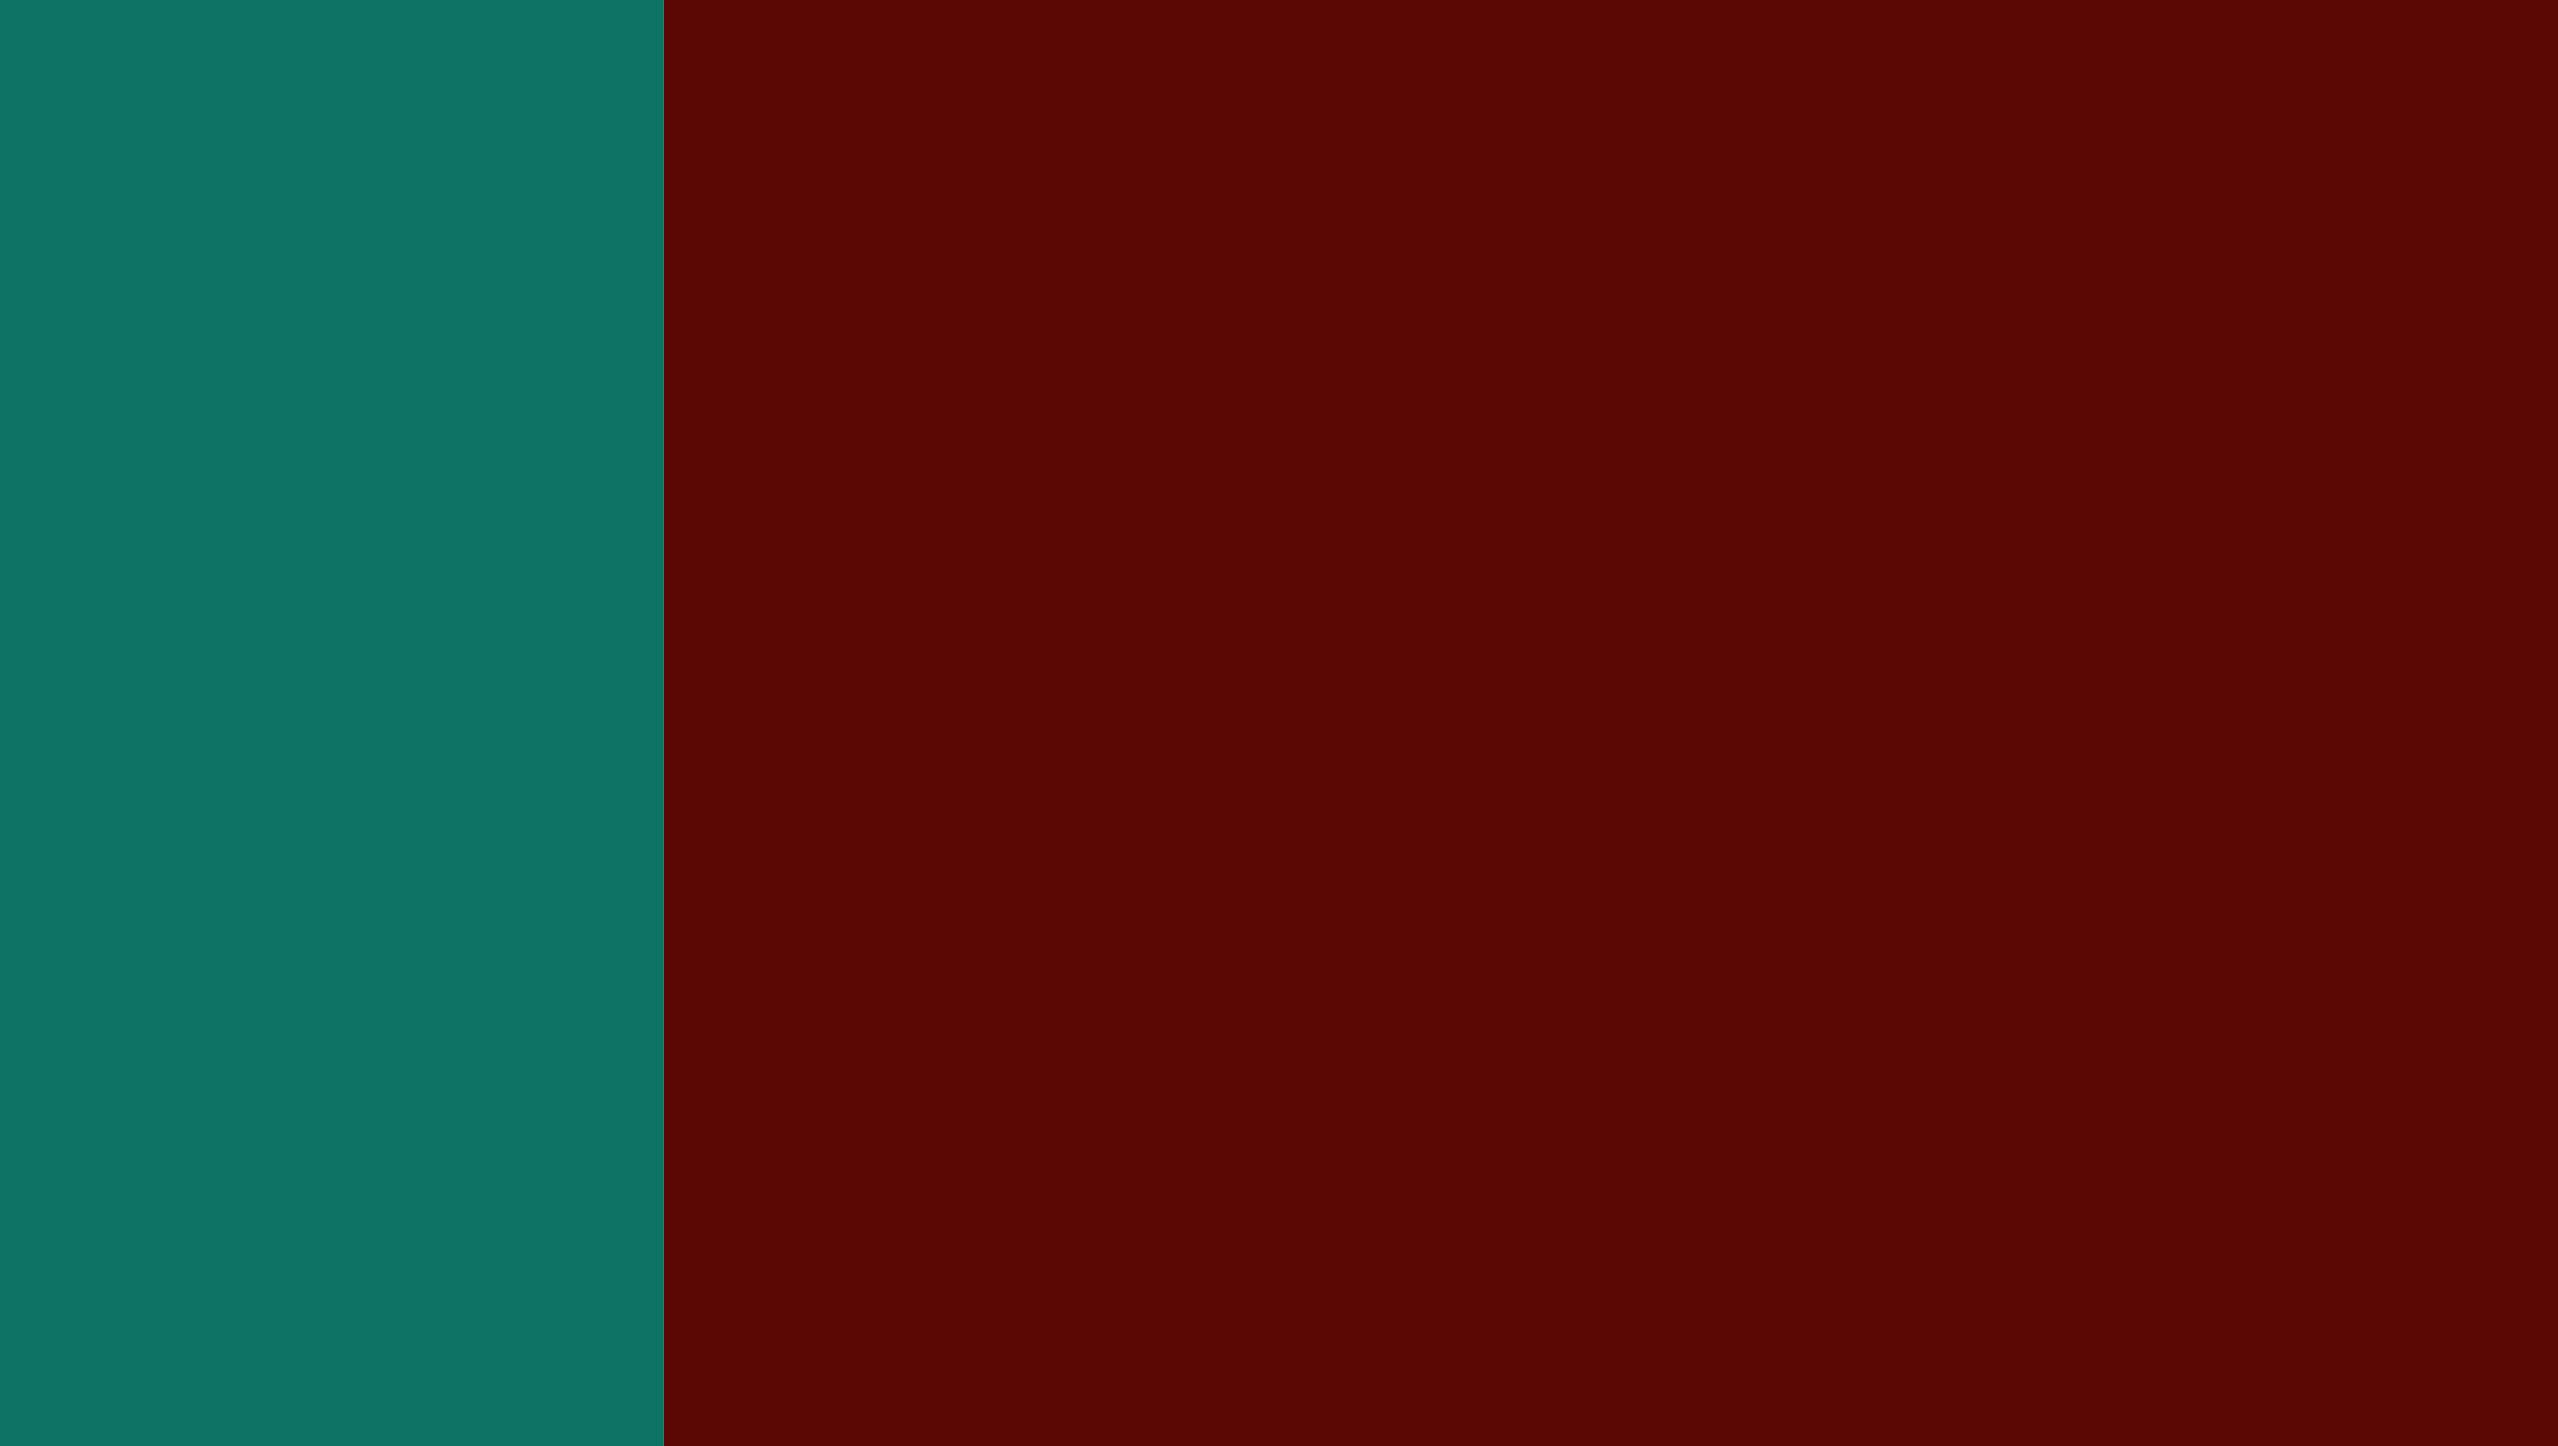
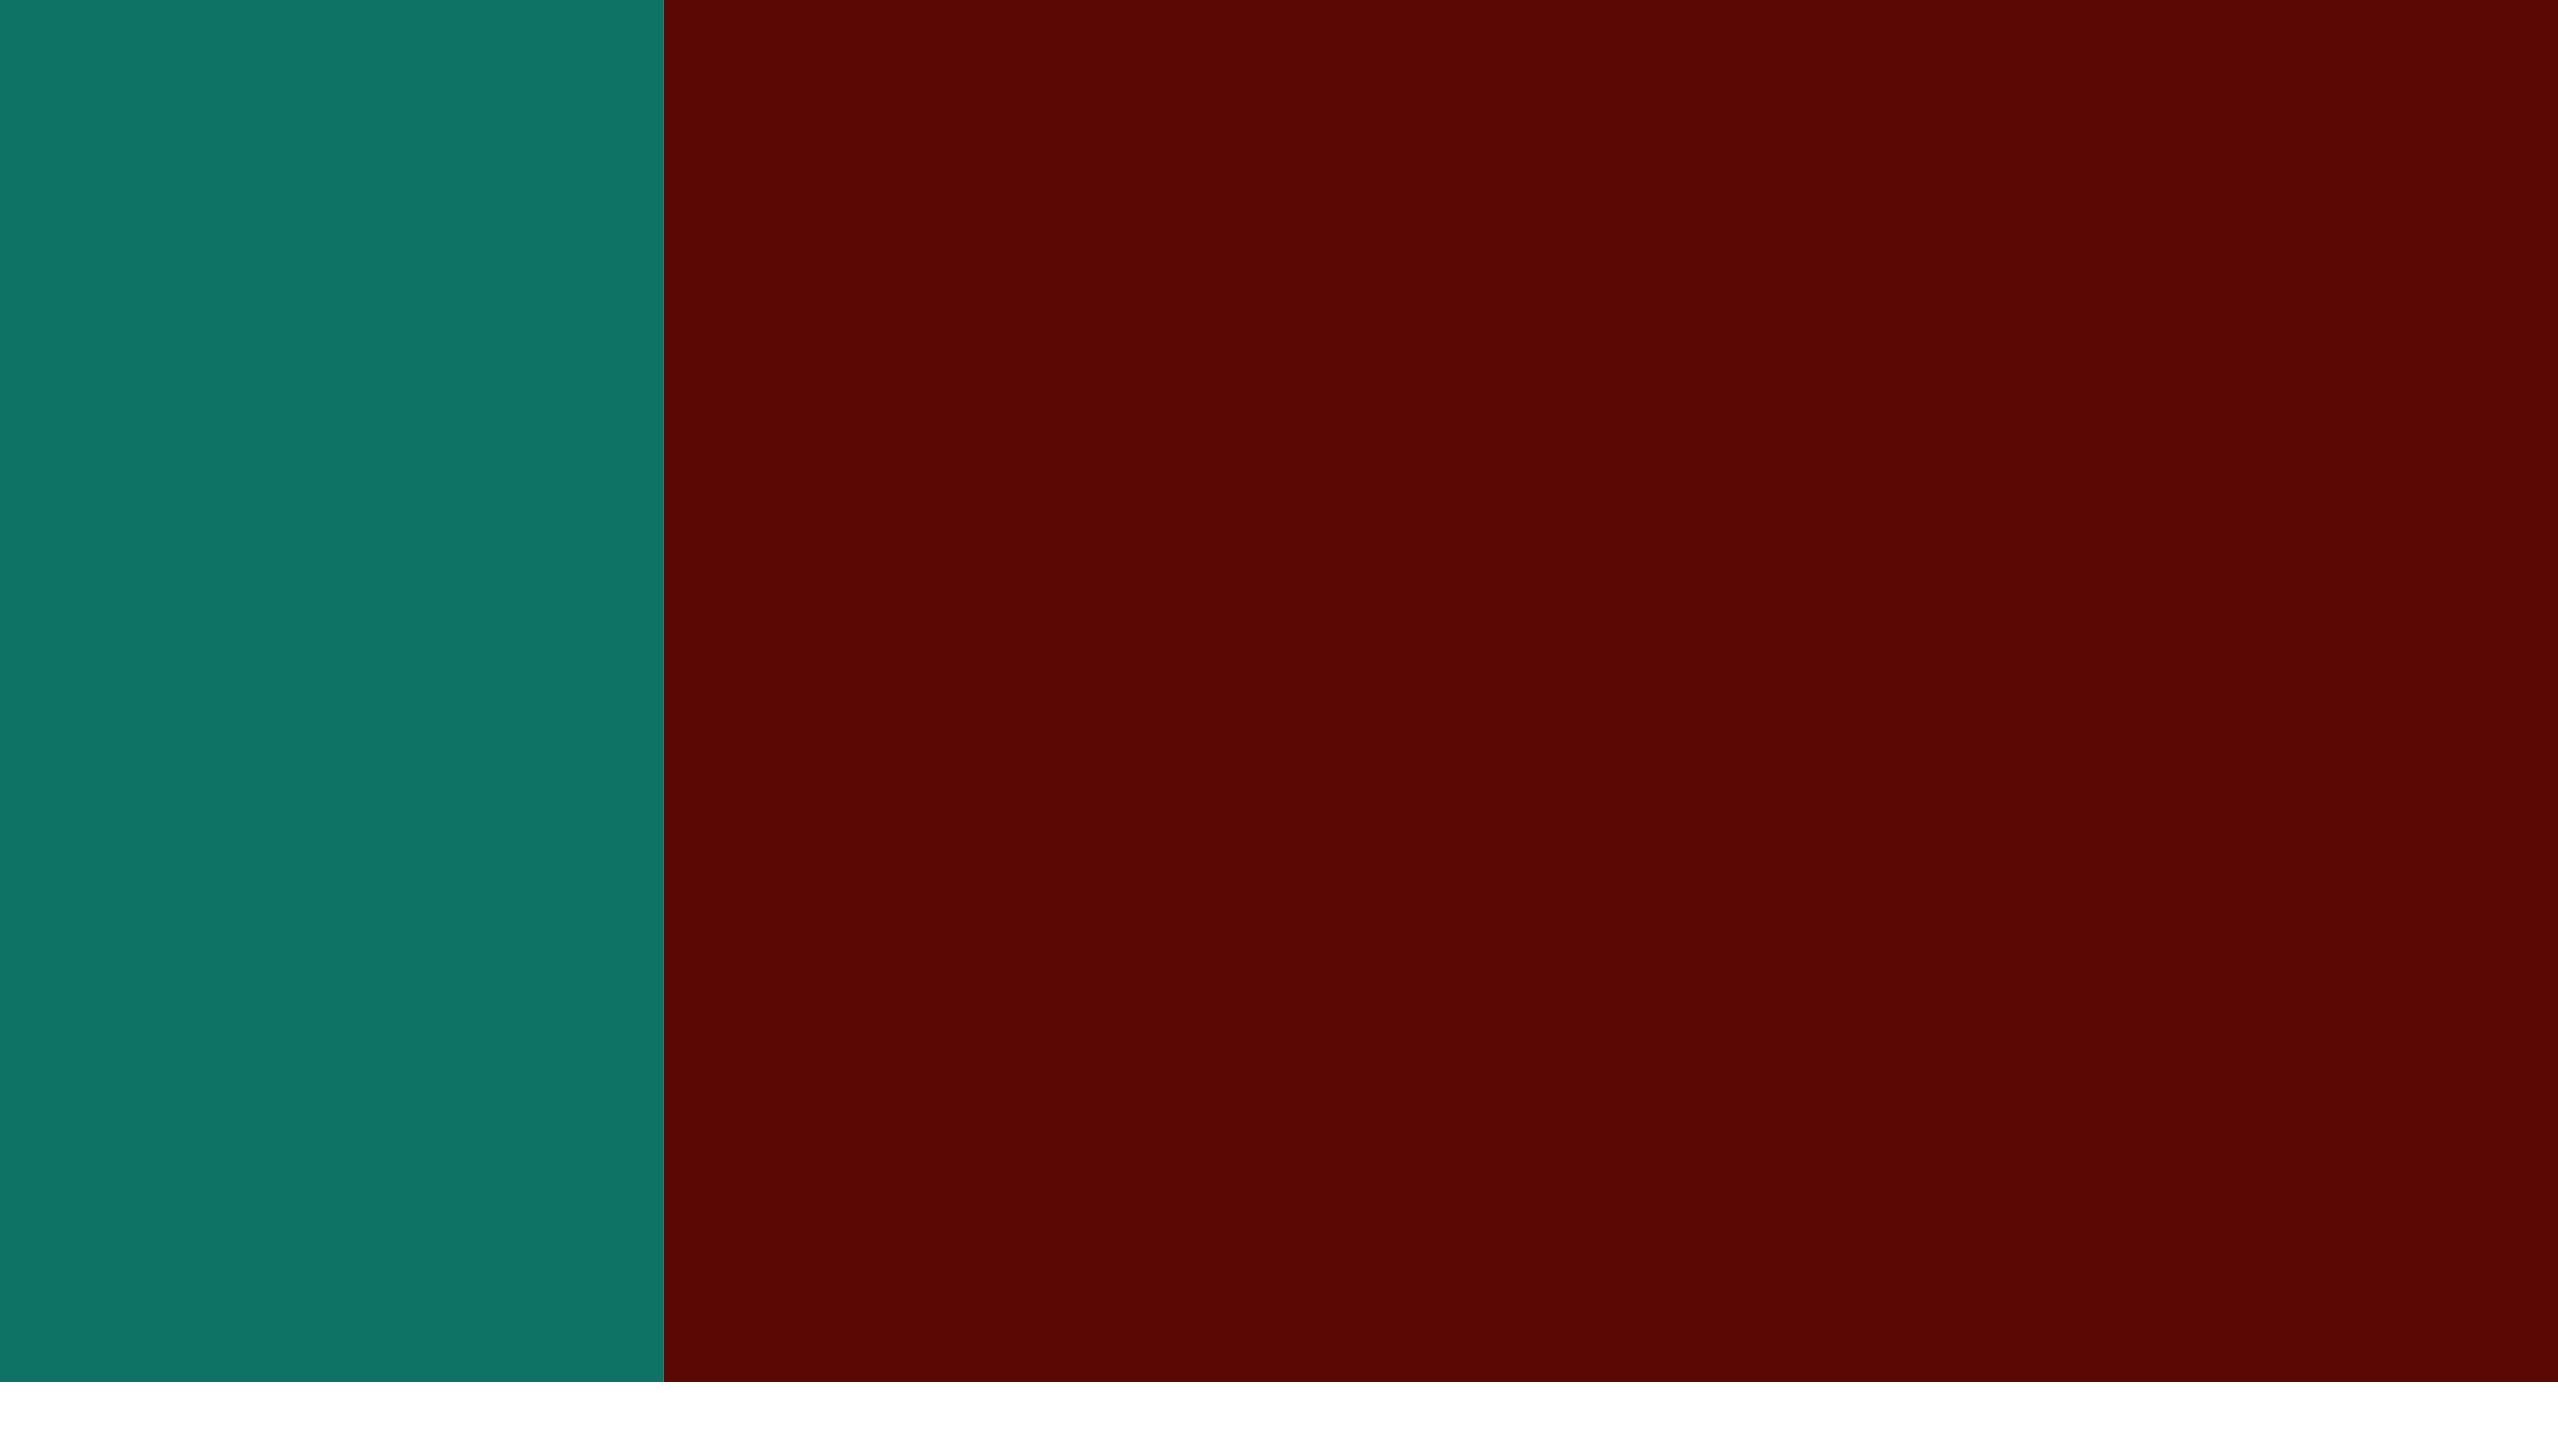
fixed footer whitespace

Changed region(s): [[0.0, 0.9336, 1.0, 1.0]]

diff --git a/style.css b/style.css
@@ -131,11 +131,11 @@ html {
     /* z-index: 2; */
 }
 
-.nav-load-intro {
+/* .nav-load-intro {
     background-color: rgba(3, 115, 102, 0.529);
     position: absolute;
     padding: 0 4%;
-}
+} */
 
 .nav-scroll {
     margin-top: 0;
@@ -489,7 +489,7 @@ a.challenge-link:visited {
 
   footer {
       background-color: black;
-      height: 15vh;
+      height: 17vh;
       display: flex;
       flex-direction: column;
       align-content: center;
